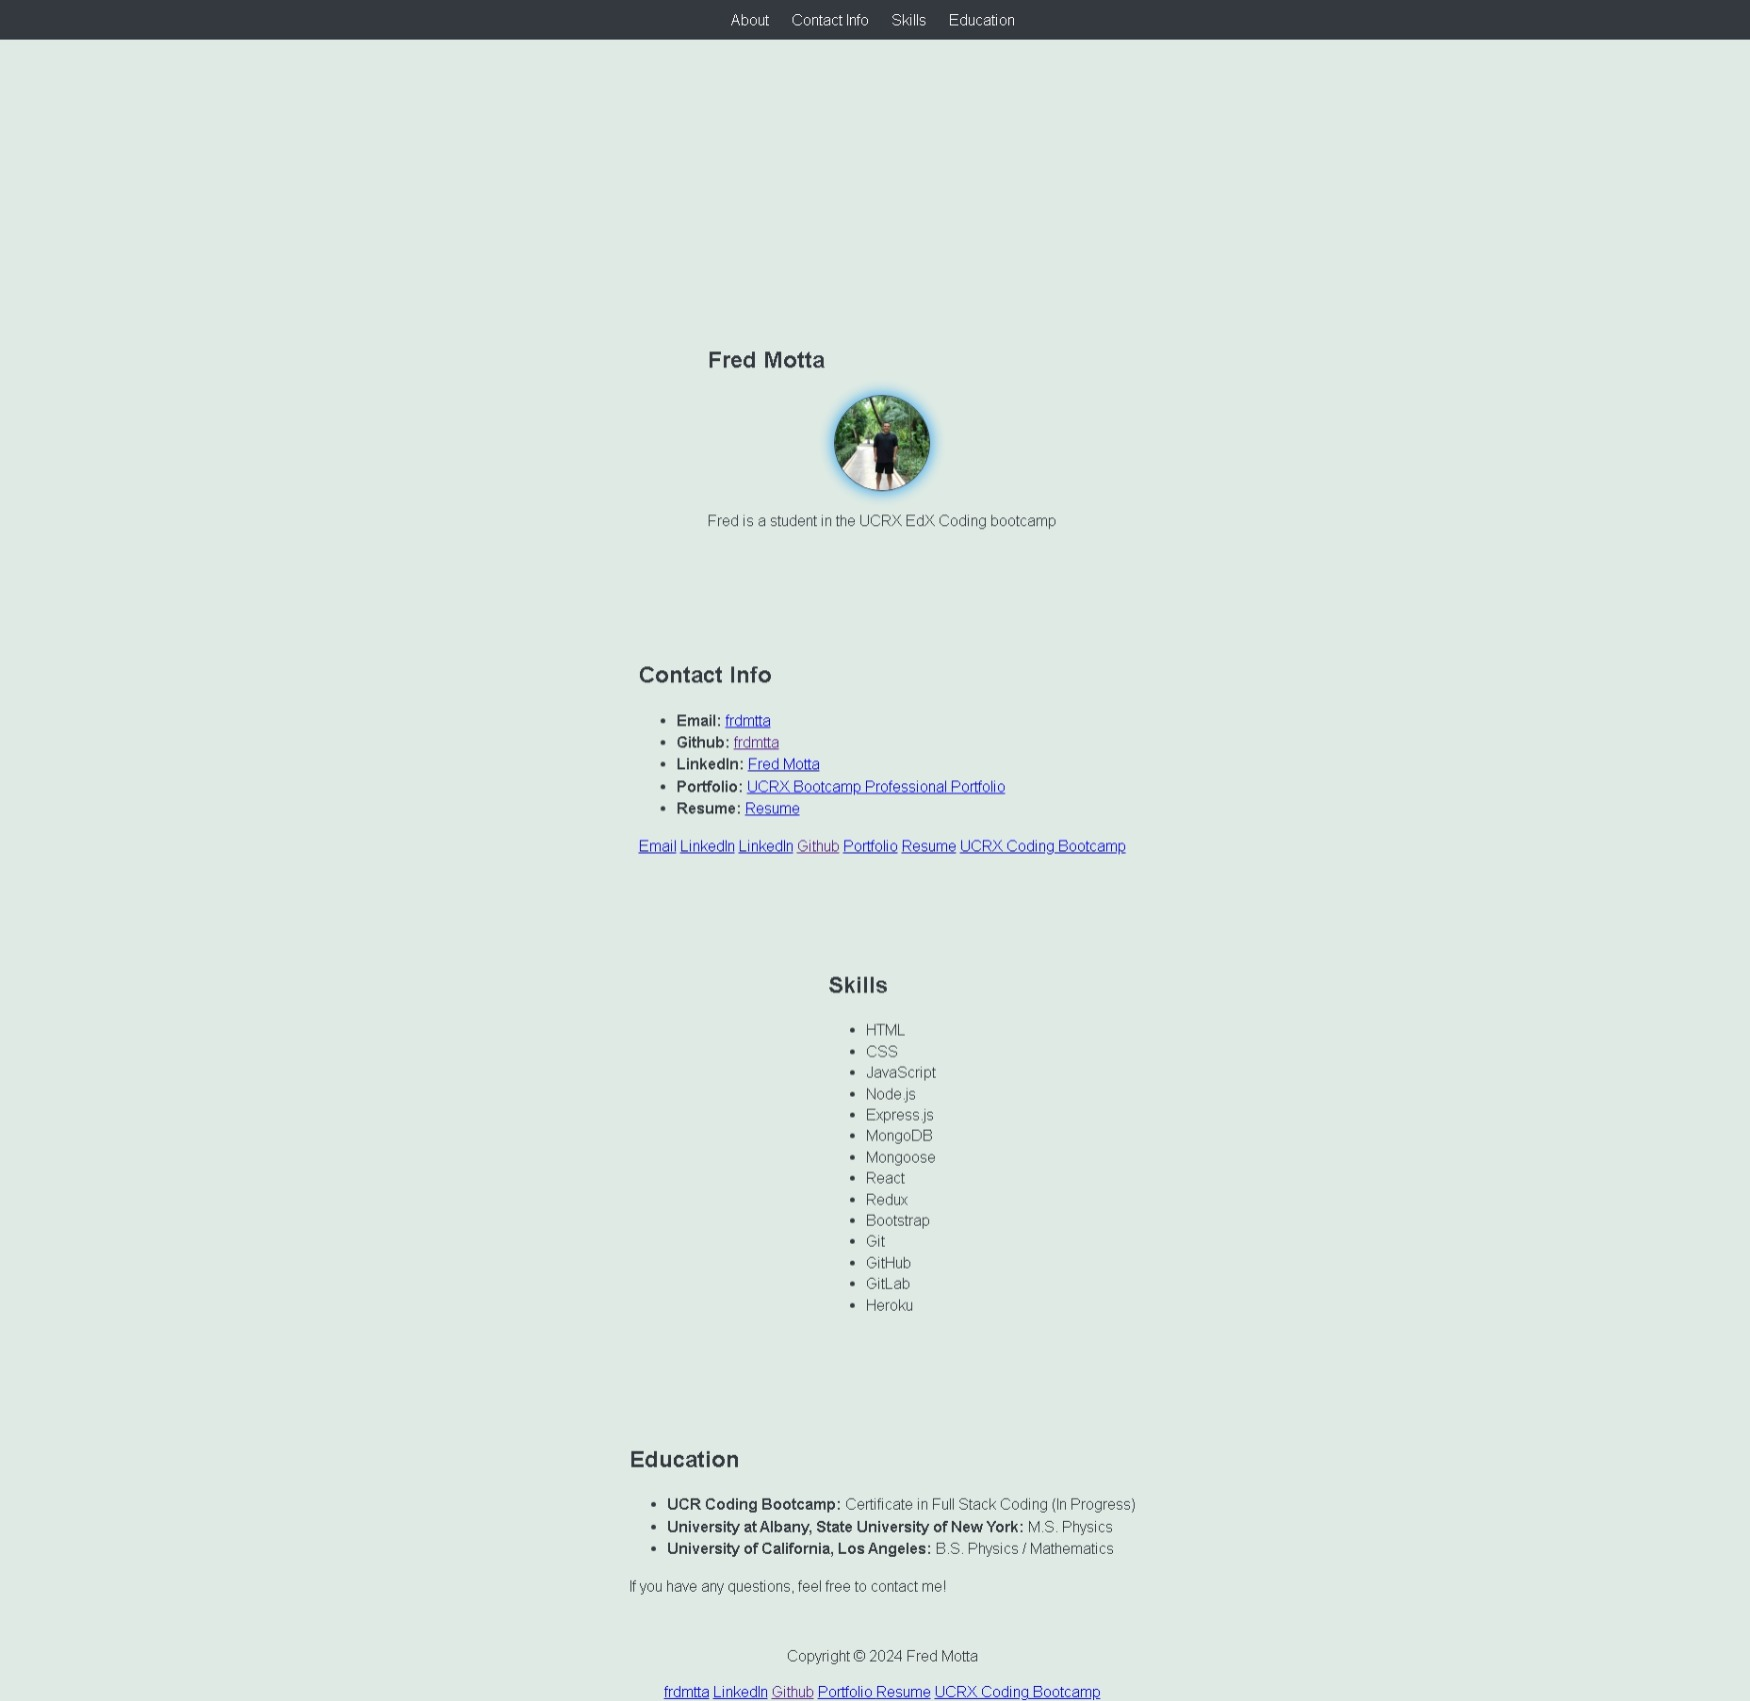
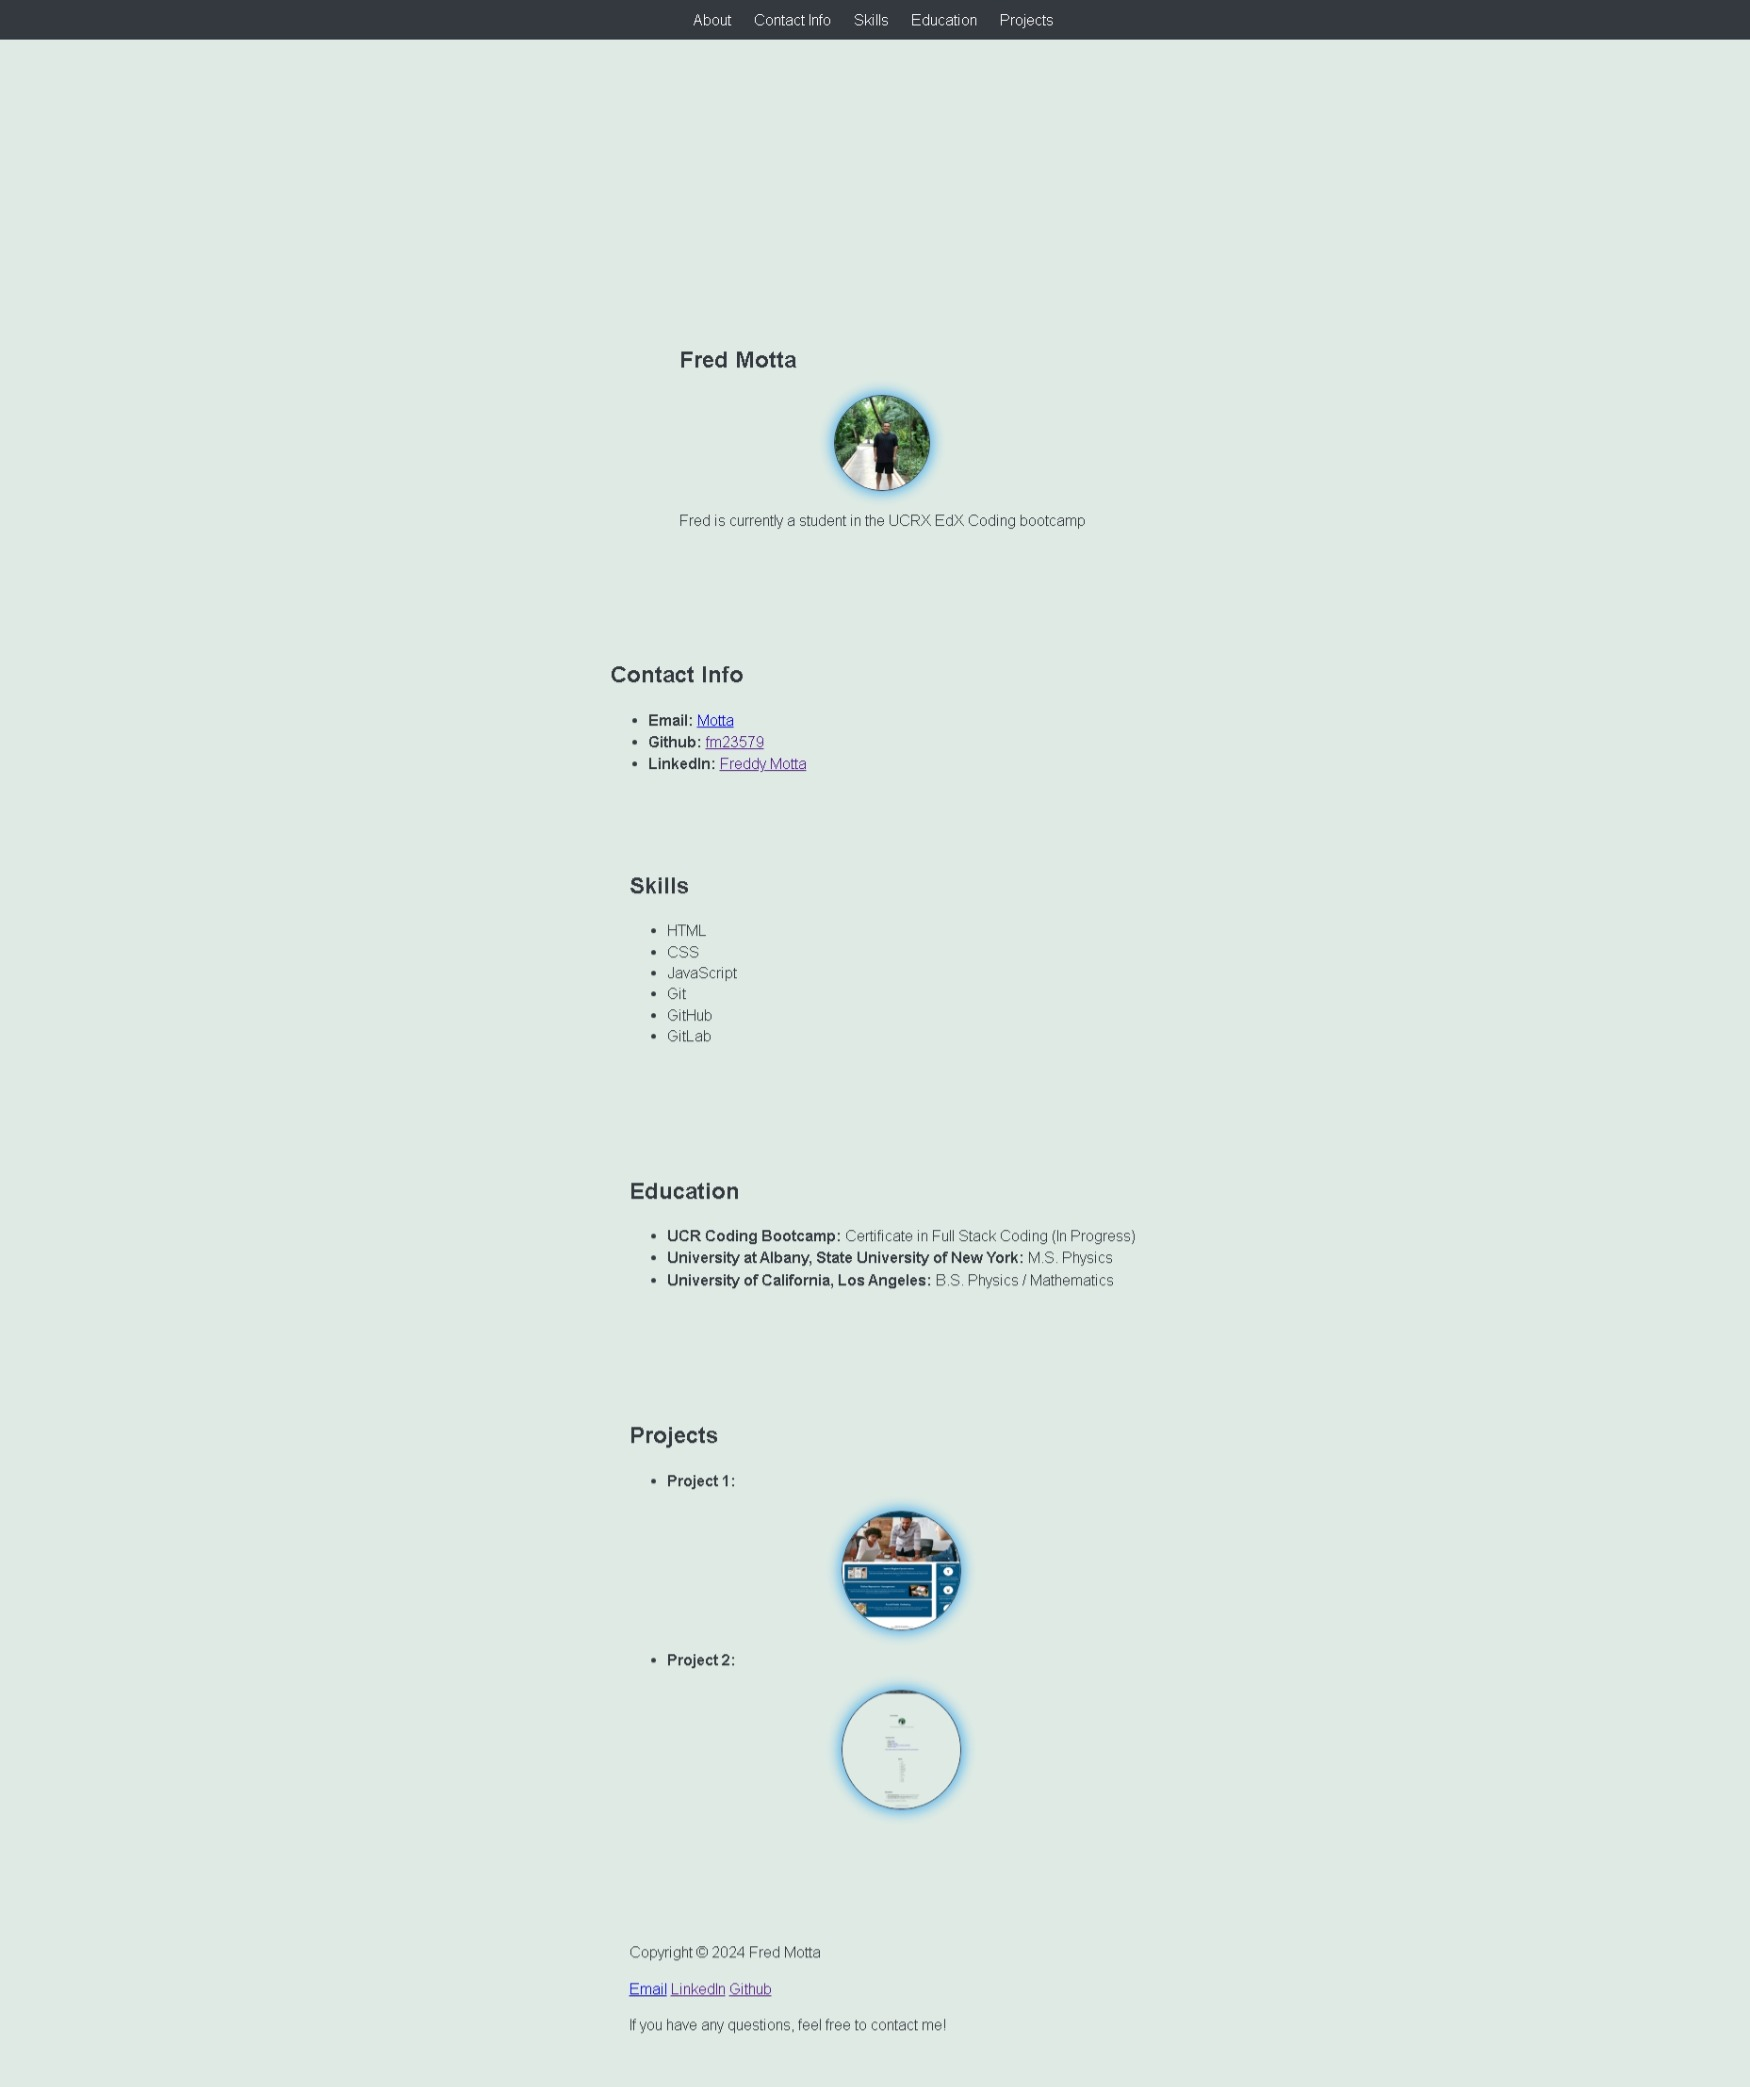
"new"

diff --git a/Assets/style.css b/Assets/style.css
@@ -20,6 +20,10 @@
     text-shadow: none;
 
 }
+
+
+  
+  /* set default font size to 10px, which is 1rem */
   
 html, body {
     font-size: 62.5%; /* 10px */
@@ -29,94 +33,21 @@ html, body {
     margin: 0;
     padding: 0;
 }
-/* #awards {
-    text-shadow: var(--outer-space);
-    text-align: center;
-    margin: 0;
-    padding: 0;
-    font-size: 1.5em;
-    line-height: 1.4;
-    letter-spacing: 0.05em;
-    text-transform: uppercase;
-}
-#about { 
-
-    text-shadow: var(--outer-space);
-    text-align: center;
-    margin: 0;
-    padding: 0;
-    font-size: 1.5em;
-    line-height: 1.4;
-    letter-spacing: 0.05em;
-    text-transform: uppercase;
-}
-#contact {
-    text-shadow: var(--outer-space);
-    text-align: center;
-    margin: 0;
-    padding: 0;
-    font-size: 1.5em;
-    line-height: 1.4;
-    letter-spacing: 0.05em;
-    text-transform: uppercase;
-}
-#skills {
-    text-shadow: var(--outer-space);
-    text-align: center;
-    margin: 0;
-    padding: 0;
-    font-size: 1.5em;
-    line-height: 1.4;
-    letter-spacing: 0.05em;
-    text-transform: uppercase;
-}
-#education {
-    text-shadow: var(--outer-space);
-    text-align: center;
-    margin: 0;
-    padding: 0;
-    font-size: 1.5em;
-    line-height: 1.4;
-    letter-spacing: 0.05em;
-    text-transform: uppercase;
-}
-
-#projects { 
-    text-shadow: var(--outer-space);
-    text-align: center;
-    margin: 0;
-    padding: 0;
-    font-size: 1.5em;
-    line-height: 1.4;
-    letter-spacing: 0.05em;
-    text-transform: uppercase;
-}
-
-#experience {
-    text-shadow: var(--outer-space);
-    text-align: center;
-    margin: 0;
-    padding: 0;
-    font-size: 1.5em;
-    line-height: 1.4;
-    letter-spacing: 0.05em;
-    text-transform: uppercase;
-}
-
-#footer {
-    text-shadow: var(--outer-space);
-    text-align: center;
-    margin: 0;
-    padding: 0;
-    font-size: 1.5em;
-    line-height: 1.4;
-    letter-spacing: 0.05em;
-    text-transform: uppercase;
-} */
 
 
 /* Navigation Bar */
 #nav {
+    display: inline;
+    float: center;
+    width: 100%;
+    background-color: var(--heliotrope);
+    color: var(--outer-space);
+    text-align: center; 
+    font-size: 1.5rem;
+    font-weight: bold;
+    padding: 1rem;
+    margin: 0;
+    z-index: 100;
     background-color: var(--outer-space); /* Change as per your color scheme */
     color: var(--white);
     text-align: center;
@@ -151,7 +82,47 @@ section {
 
 /* Header Styling */
 header {
+    text-align: right;
+    padding: 20px;
+    margin-top: 60px; /* Space for the fixed nav bar */
+    background-color: var(--outer-space); /* Change as per your color scheme */
+    color: var(--white);
     text-align: center;
+    padding: 10px 0;
+    position: fixed; /* Keeps the nav bar at the top */
+    top: 0;
+    width: 100%;
+    z-index: 1; /* Ensures nav is above other content */
+    opacity: 0.0;
+    transition: opacity 0.5s ease;
+    -webkit-transition: opacity 0.5s ease;
+    -moz-transition: opacity 0.5s ease;
+    -ms-transition: opacity 0.5s ease;
+    -o-transition: opacity 0.5s ease;
+    transform: scale(0.9);
+    -webkit-transform: scale(0.9);
+    -moz-transform: scale(0.9);
+    -ms-transform: scale(0.9);
+    -o-transform: scale(0.9);
+    box-shadow: 0 0 15px rgb(102, 164, 236), 0 0 15px rgb(102, 220, 236);
+    -webkit-box-shadow: 0 0 15px rgb(102, 164, 236), 0 0 15px rgb(102, 220, 236);
+    -moz-box-shadow: 0 0 15px rgb(102, 164, 236), 0 0 15px rgb(102, 220, 236);
+    -ms-box-shadow: 0 0 15px rgb(102, 164, 236), 0 0 15px rgb(102, 220, 236);
+    -o-box-shadow: 0 0 15px rgb(102, 164, 236), 0 0 15px rgb(102, 220, 236);
+    position: relative;
+    z-index: 1;
+    display: flex;
+    justify-content: space-between;
+    align-items: center;
+    width: 100%;
+    background-color: var(--outer-space); /* Change as per your color scheme */
+    color: var(--white);
+    text-align: center;
+    padding: 10px 0;
+    position: fixed; /* Keeps the nav bar at the top */
+    top: 0;
+    width: 100%;
+    z-index: 1; /* Ensures nav is above other content */
 }
 
 /* Image Styling */
@@ -161,11 +132,26 @@ header {
     border-radius: 50%;
     border: 1px solid var(--outer-space);
     margin: 20px auto;
+    :hover {
+        background-color: var(--gin);
+        color: var(--outer-space);
+        text-shadow: var(--black)
+    
+    }
 }
 
 /* Footer Styling */
 footer {
     text-align: center;
+    padding: 20px;
+    background-color: var(--outer-space);
+    color: var(--white);
+    text-shadow: var(--black);
+    margin-top: 60px;
+    font-size: 0.8rem;
+    font-weight: 300;
+    font-style: italic;
+    font-family: 'Open Sans', sans-serif;
 }
 #p {
     font-size: 1.6rem;
@@ -230,19 +216,25 @@ h1 {
     padding: 0;    
     width: 100px !important;
     height: 100px;
-    border-radius: 50%;
+    border-radius: 10%;
     border: 1px solid var(--outer-space);
     background-color: var(--outer-space);
     margin: 0 auto;
     margin-top: 20px;
     margin-bottom: 20px;
     box-shadow: 0 4px 8px 0 rgba(0, 0, 0, 0.2), 0 6px 20px 0 rgba(0, 0, 0, 0.19);
+    :hover {
+        background-color: var(--gin);
+        color: var(--outer-space);
+        text-shadow: var(--black)
+    
+    }
 
 }
 #img-project1 {
-    width: 125px !important;
-    height: 125px;
-    border-radius: 50%;
+    width: 200px !important;
+    height: 200px;
+    border-radius: 20%;
     border: 1px solid var(--outer-space);
     background-color: var(--outer-space);
     margin: 0 auto;
@@ -261,12 +253,18 @@ h1 {
     box-shadow: 0 0 15px rgb(102, 164, 236), 0 0 15px rgb(102, 220, 236);
    
     position: relative !important;
+    :hover {
+        background-color: var(--gin);
+        color: var(--outer-space);
+        text-shadow: var(--black)
+    
+    }
 
 }
 #img-project2 {
-    width: 125px !important;
-    height: 125px;
-    border-radius: 50%;
+    width: 200px !important;
+    height: 200px;
+    border-radius: 20%;
     border: 1px solid var(--outer-space);
     background-color: var(--outer-space);
     margin: 0 auto;
@@ -285,6 +283,12 @@ h1 {
     box-shadow: 0 0 15px rgb(102, 164, 236), 0 0 15px rgb(102, 220, 236);
    
     position: relative !important;
+    :hover {
+        background-color: var(--gin);
+        color: var(--outer-space);
+        text-shadow: var(--black)
+    
+    }
 }
 
 #img-fred {
@@ -309,6 +313,12 @@ h1 {
     box-shadow: 0 0 15px rgb(102, 164, 236), 0 0 15px rgb(102, 220, 236);
    
     position: relative !important;
+    :hover {
+        background-color: var(--gin);
+        color: var(--outer-space);
+        text-shadow: var(--black)
+    
+    }
 }
 #content {
     margin-top: 20px;
@@ -347,15 +357,10 @@ h1 {
     height: 100%;
     transition: all 0.5s ease-in-out;
     z-index: 0;
-    background-image: url("https://images.unsplash.com/photo-1517245386807-9b4d0d6f9a2a?ixlib=rb-1.2.1&auto=format&fit=crop&w=1350&q=80");
     background-size: cover;
     background-position: center;
- 
     filter: blur(5px);
     transform: scale(1.1);
-
-
-
 }
 #menu {
     position: absolute;
@@ -366,15 +371,12 @@ h1 {
     transition: all 0.5s ease-in-out;
     z-index: 1;
     background-color: var(--black);
-
     transform: scale(0.9);
     display: flex;
     flex-direction: row;
     align-items: center;
     justify-content: space-around;
     padding: 20px;
-
-
 }
   /* using a mobile-first approach, use `min-width` values going from narrow -> wide for a responsive design */
 @media screen and (min-width: 768px) {
@@ -408,7 +410,7 @@ h1 {
       justify-content: center;
       width: 100%;
       height: 100%;
-      opacity: 0;
+      opacity: 0.0;
       transform: scale(0.9);
    
       transition: all 0.5s ease-in-out;
